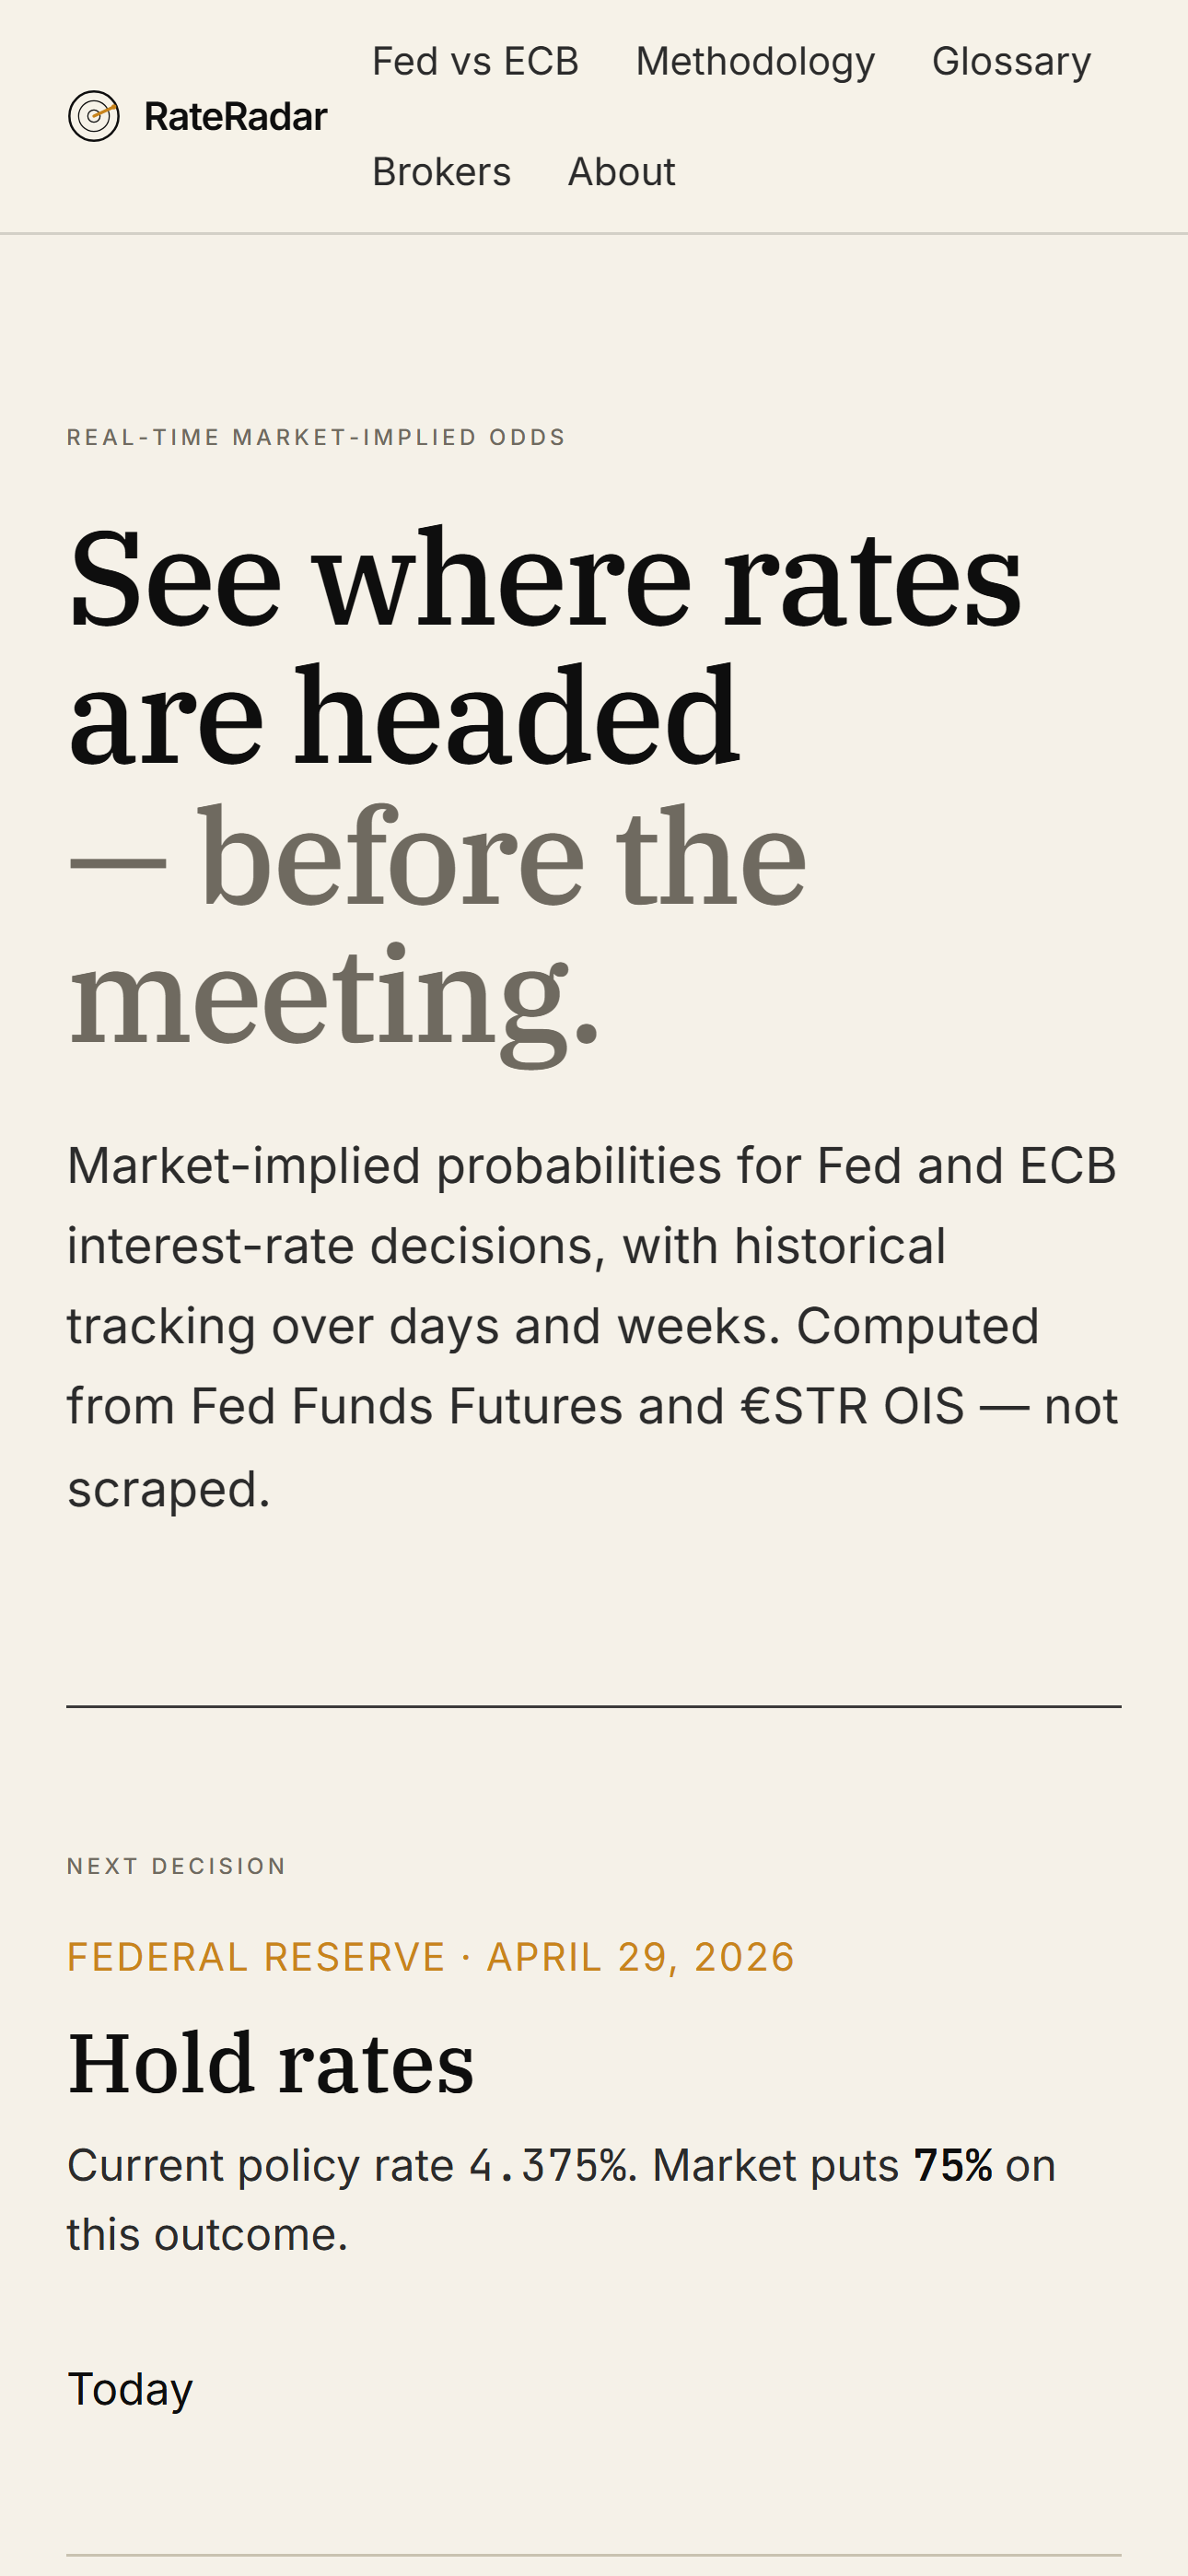
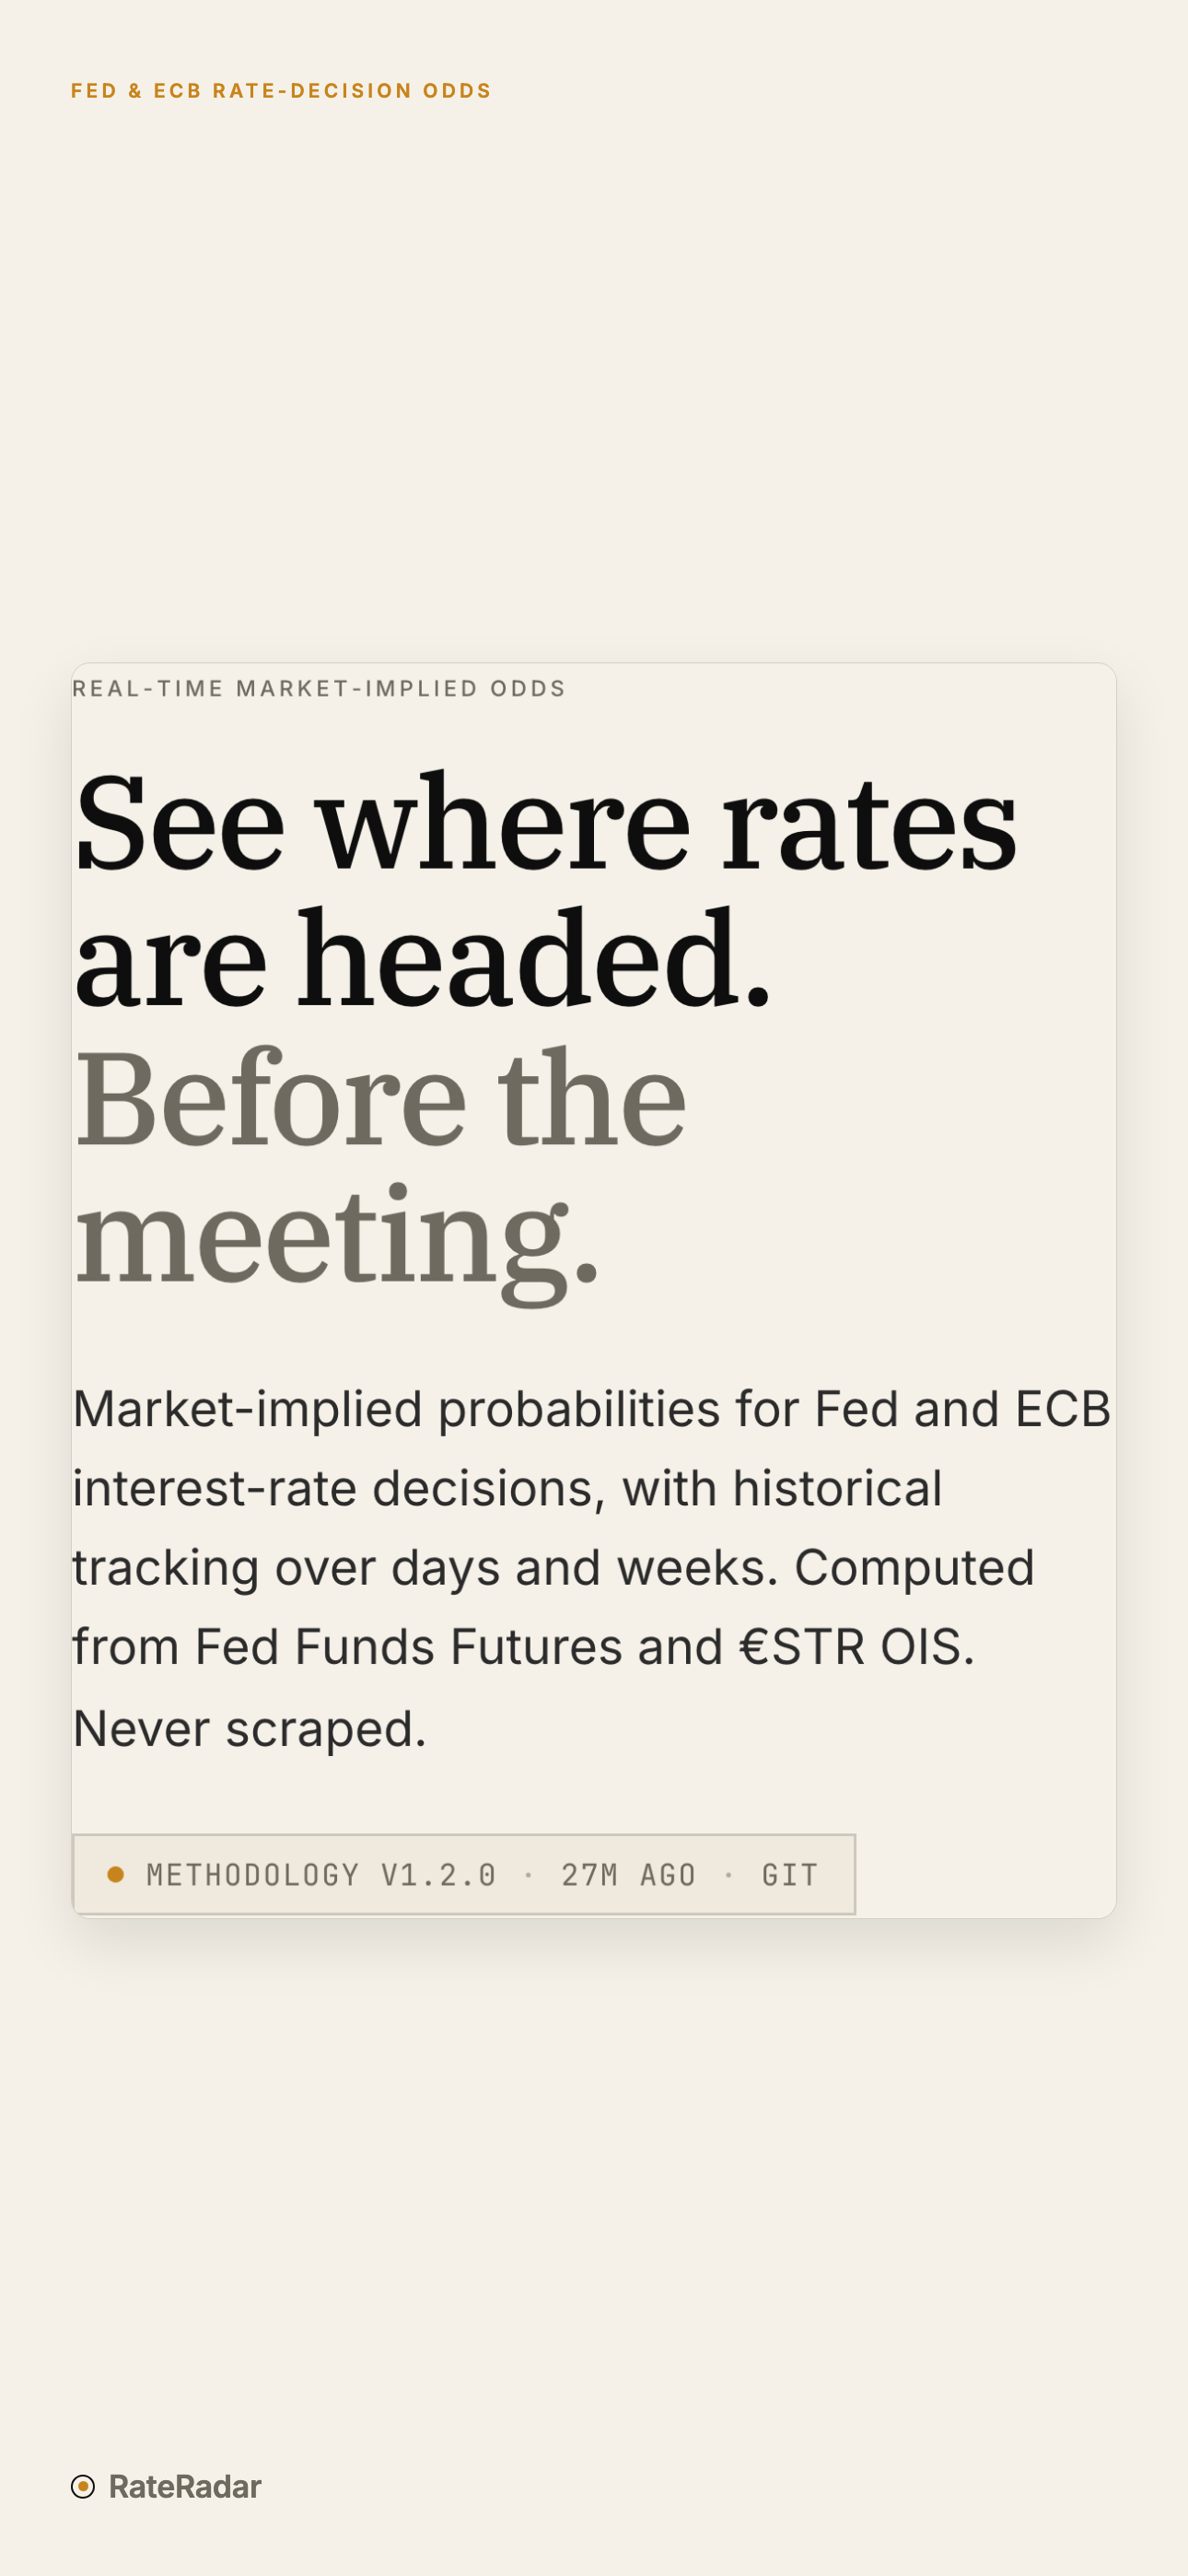
feat(ios): real-data D1 App Store screenshots + Fed-rate fix (Phase 4) (#16)
* feat(ios): D1 App Store poster generator (real-data capture)

* fix(ios): render D1 posters at deviceScaleFactor 1 for exact Apple dims

The poster page inherited the dpr-3 tile context, tripling output to
3870x8388 instead of 1290x2796. Render posters in a dedicated dpr-1 context
(the high-res tile data-URI stays crisp) so PNGs match Apple's exact sizes.

* fix(web): correct stale Fed policy-rate anchor 4.375 -> 3.625

The implied-rate-curve startingRate + the displayed current Fed rate used a
hardcoded 4.375 (the pre-2026-04-29 range). Real Fed mid is 3.625 (3.50-3.75).
Was offsetting the whole implied curve +0.75pp vs the real outcome data.

* feat(ios): real-data D1 App Store screenshots (5 shots x 3 sizes)

Re-rendered from the live app on real cron data (FED forward-implied @ 3.625,
methodology v1.2.0; ECB spot-anchored). Replaces the old 4-shot set with the
D1 direction: hero, outcomes, most-likely-path, Fed-vs-ECB divergence, curve.
Sizes 1290x2796 / 1242x2688 / 2064x2752.

* fix(ios): resolve ASC key path from ASC_KEY_ID env (was broken placeholder)

Both screenshot uploaders hardcoded a literal AuthKey_<ASC_KEY_ID>.p8 path
(public-repo sanitization artifact) that never resolves. Interpolate the
ASC_KEY_ID env var (already required for the JWT kid) so the upload is runnable.

* docs(report): Phase 4 staged — upload blocked on ASC_ISSUER_ID

* docs(report): finalize — Phases 2+3 merged, live cron confirmed

---------

diff --git a/apps/web/src/lib/policy-rates.ts b/apps/web/src/lib/policy-rates.ts
@@ -3,18 +3,18 @@
  * forward rate curves. Updated manually when central banks change rates; the
  * pipeline can also derive these from live data once fully hooked up.
  *
- * FED: 4.25-4.50% target range → midpoint 4.375% (as of Apr 2026)
+ * FED: 3.50-3.75% target range → midpoint 3.625% (since 2026-04-29)
  * ECB: 2.00% deposit facility rate (DFR) (as of Apr 2026)
  */
 
 import type { BankCode } from "./types";
 
 export const CURRENT_POLICY_RATES: Record<BankCode, number> = {
-  FED: 4.375,
+  FED: 3.625,
   ECB: 2.0,
 };
 
 export const CURRENT_POLICY_RATE_LABELS: Record<BankCode, string> = {
-  FED: "Fed Funds target range 4.25–4.50%",
+  FED: "Fed Funds target range 3.50–3.75%",
   ECB: "ECB Deposit Facility Rate 2.00%",
 };

diff --git a/NIGHT-REPORT.md b/NIGHT-REPORT.md
@@ -10,8 +10,8 @@ This file is the morning hand-off. Per phase: PR#/commit + verify output, or the
 ## Phase 1 — FED §10 cross-contract solve — ✅ DONE (pre-run)
 PR #13, commit `7a4f25e`, METHODOLOGY v1.1.0. Not part of this run.
 
-## Phase 2 — ECB free spot-anchored fetcher — ✅ VERIFIED, awaiting CI+merge
-Branch: `feat/ecb-spot-anchored` (9 commits: `65885c4`→`d681445`).
+## Phase 2 — ECB free spot-anchored fetcher — ✅ MERGED (PR #14, squash `57982a3`)
+Branch: `feat/ecb-spot-anchored` (9 commits) — merged + deleted. CI green.
 
 **Shipped:** `EcbEstrFetcher` (`src/fetchers/ecb_estr_source.py`) — free no-auth ECB fetcher pulling real DFR + €STR spot from the ECB Data Portal (`data-api.ecb.europa.eu`) with FRED CSV fallback, anchoring every meeting at the current DFR (flat "Hold") and labeling it "spot-anchored — forward odds unavailable". Wired into `build_fetcher` as `--source estr`; basis surfaced in CLI + JSON payload (`estimation_basis`) + METHODOLOGY §6/§11; METHODOLOGY_VERSION 1.1.0→1.2.0. `probability_calc.py` untouched (pure).
 
@@ -23,8 +23,8 @@ Branch: `feat/ecb-spot-anchored` (9 commits: `65885c4`→`d681445`).
 - Reviews: Group A spec✅+quality✅, Group B spec✅+quality✅(conditional, fixed), final holistic review = **SHIP**.
 - Note: `estr_spot()` + `forward_curve_available()` are intentional public hooks for future UI wiring (not dead code).
 
-## Phase 3 — Pipeline off mock + real daily data — ✅ VERIFIED, awaiting CI+merge+live-cron
-Branch: `feat/pipeline-real-data` (7 commits: `fc28314`→`8cb6b3e`).
+## Phase 3 — Pipeline off mock + real daily data — ✅ MERGED (PR #15, squash `d85cee9`) + LIVE CRON CONFIRMED
+Branch: `feat/pipeline-real-data` (7 commits) — merged + deleted. CI green.
 
 **Shipped:**
 - **Cron off mock** (`pipeline-cron.yml`): matrix now FED→`yfinance`, ECB→`estr`; `RR_FED_CURRENT_RATE` read from a **repo variable** (set to `3.625`, not hardcoded). ECB ignores it (live DFR).
@@ -40,15 +40,42 @@ Branch: `feat/pipeline-real-data` (7 commits: `fc28314`→`8cb6b3e`).
 - Web: `pnpm lint` clean + `pnpm build` exit 0.
 - Reviews: Group A (pipeline) spec✅+quality✅(approve); Group B (web) spec+quality✅ = SHIP.
 
-**Remaining after merge:** trigger live cron (`gh workflow run pipeline-cron.yml`) + confirm a real, varying `series.json` committed (retry ≤3× on yfinance rate-limit; proceed to Phase 4 only if ≥1 real FED snapshot landed).
+**Live cron — DONE:** triggered `pipeline-cron.yml` on main; run succeeded and committed REAL data (`f848269`, "pipeline cron @ 2026-06-02T23:11Z"). FED `fed/latest.json` = 25 rows / 5 meetings, `methodology_version 1.2.0`, basis forward-implied, smooth Hold 98/90/79/87/68% (no sawtooth); ECB spot-anchored labeled. yfinance was NOT rate-limited on the GH runner this run. ≥1 real FED snapshot landed → Phase 4 unblocked.
 
-## Phase 4 — Screenshots from real data — ⬜ PENDING
-Branch: `feat/d1-screenshots-real`
+## Phase 4 — Screenshots from real data — ⚠️ GENERATION DONE + STAGED, UPLOAD BLOCKED (HARD STOP)
+Branch: `feat/d1-screenshots-real` (PR open, **NOT merged** — upload VERIFY unmet). Commits `7e0e536`→`4561c67`.
 
-## Phase 5 — ASO metadata + DE localization + ship v1.0.3 — ⬜ PENDING
-Branch: `feat/aso-v1_0_3`
+**What shipped (committed on branch):**
+- Committed the previously-untracked `capture-d1-posters.mjs` generator.
+- **15 real-data D1 screenshots** generated + staged in `apps/ios-expo/assets/screenshots/{6.9,6.5,ipad-13}/` (5 shots × 3 sizes): `01-hero, 02-outcomes, 03-path, 04-divergence, 05-curve`. Exact Apple dims: **6.9=1290×2796, 6.5=1242×2688, ipad-13=2064×2752**. Visually verified all show REAL data (FED forward-implied @ 3.625, methodology v1.2.0, smooth no-sawtooth Hold 98/90/79/87/68%; ECB spot-anchored; hero badge shows "METHODOLOGY V1.2.0").
+- **2 bug fixes found while rendering** (both committed, both improve the live product):
+  - `fix(ios)` `41828bd`: generator rendered posters at dpr-3 → 3870×8388 (3× too big). Now renders posters in a dpr-1 context → exact Apple dims.
+  - `fix(web)` `ff1771e`: `policy-rates.ts` had a **stale hardcoded Fed anchor 4.375** → the implied-rate curve + displayed current rate were +0.75pp wrong vs real outcome data. Corrected to **3.625** (real Fed mid since 2026-04-29). This is a genuine LIVE-SITE display bug fix.
+  - `fix(ios)` `4561c67`: both ASC uploaders had a broken `AuthKey_<ASC_KEY_ID>.p8` placeholder path (public-repo sanitization artifact). Now interpolate `${process.env.ASC_KEY_ID}` → runnable.
+
+**🚫 BLOCKER — ASC upload cannot run unattended:** `ASC_ISSUER_ID` is not set in the environment or repo (it is a credential; I did not hunt the filesystem for it). The uploaders build a JWT with `iss: ASC_ISSUER_ID` → without it the ASC API returns 401. Per the Phase-4 hard-stop ("upload fails unattended → STAGE + record resume + HALT before Phase 5"), I staged the images and stopped.
+
+**▶️ RESUME (morning) — upload the staged screenshots, then proceed to Phase 5:**
+```bash
+# 1) merge the Phase 4 PR (after a glance — it includes the live policy-rate fix + 15 screenshots)
+gh pr merge <PR#> --squash --delete-branch
+
+# 2) upload the staged screenshots (the ONLY missing piece is your ASC issuer UUID):
+cd ~/Data/Claude/rateradar/apps/ios-expo
+export ASC_KEY_ID=8XWLD2B2RQ
+export ASC_ISSUER_ID=<your App Store Connect issuer UUID>
+ASC_SCREENSHOT_FILES="01-hero.png,02-outcomes.png,03-path.png,04-divergence.png,05-curve.png" \
+  node scripts/asc-upload-screenshots.mjs        # iPhone 6.9 + 6.5
+node scripts/asc-ipad-screenshots.mjs            # iPad (see note)
+```
+- **iPad note:** staged `ipad-13/*` are 2064×2752 (iPad Pro 13" M4). `asc-ipad-screenshots.mjs` self-captures 2048×2732 for `APP_IPAD_PRO_3GEN_129` (12.9") — it does NOT read the staged 2064×2752 files. Reconcile the iPad display type before uploading (either point it at the staged 2064×2752 with the matching display type, or let it self-capture 2048×2732).
+- Re-render anytime: real data is live on main; run a local web build (Supabase env empty → JSON) and `RR_BASE_URL=http://localhost:<port> node scripts/capture-d1-posters.mjs`.
+
+## Phase 5 — ASO metadata + DE localization + ship v1.0.3 — ⛔ NOT STARTED (halted before, per Phase-4 hard stop)
+Branch: `feat/aso-v1_0_3` (not created). Phase 5 creates v1.0.3 (reuse build 4) + fills ASO/DE metadata + submits — ALL via the ASC REST API, which needs the same `ASC_ISSUER_ID` that blocks Phase 4. Do NOT submit a version without screenshots. After the upload above succeeds, Phase 5 can run (set `ASC_KEY_ID` + `ASC_ISSUER_ID`, then `asc-fill-metadata.mjs` → `asc-finalize-submission.mjs` → set MANUAL release → `asc-submit-for-review.mjs`).
 
 ---
 
 ## Items awaiting a human
-_(none yet)_
+1. **Provide `ASC_ISSUER_ID`** (App Store Connect issuer UUID) — the single blocker for the Phase 4 screenshot upload AND all of Phase 5 (both use the ASC REST API). Once set, run the RESUME block above, then Phase 5.
+2. **Merge Phase 4 PR** (`feat/d1-screenshots-real`) — CI green, includes the live Fed-rate display fix (4.375→3.625) + 15 real screenshots. Left unmerged because the upload VERIFY couldn't complete unattended.